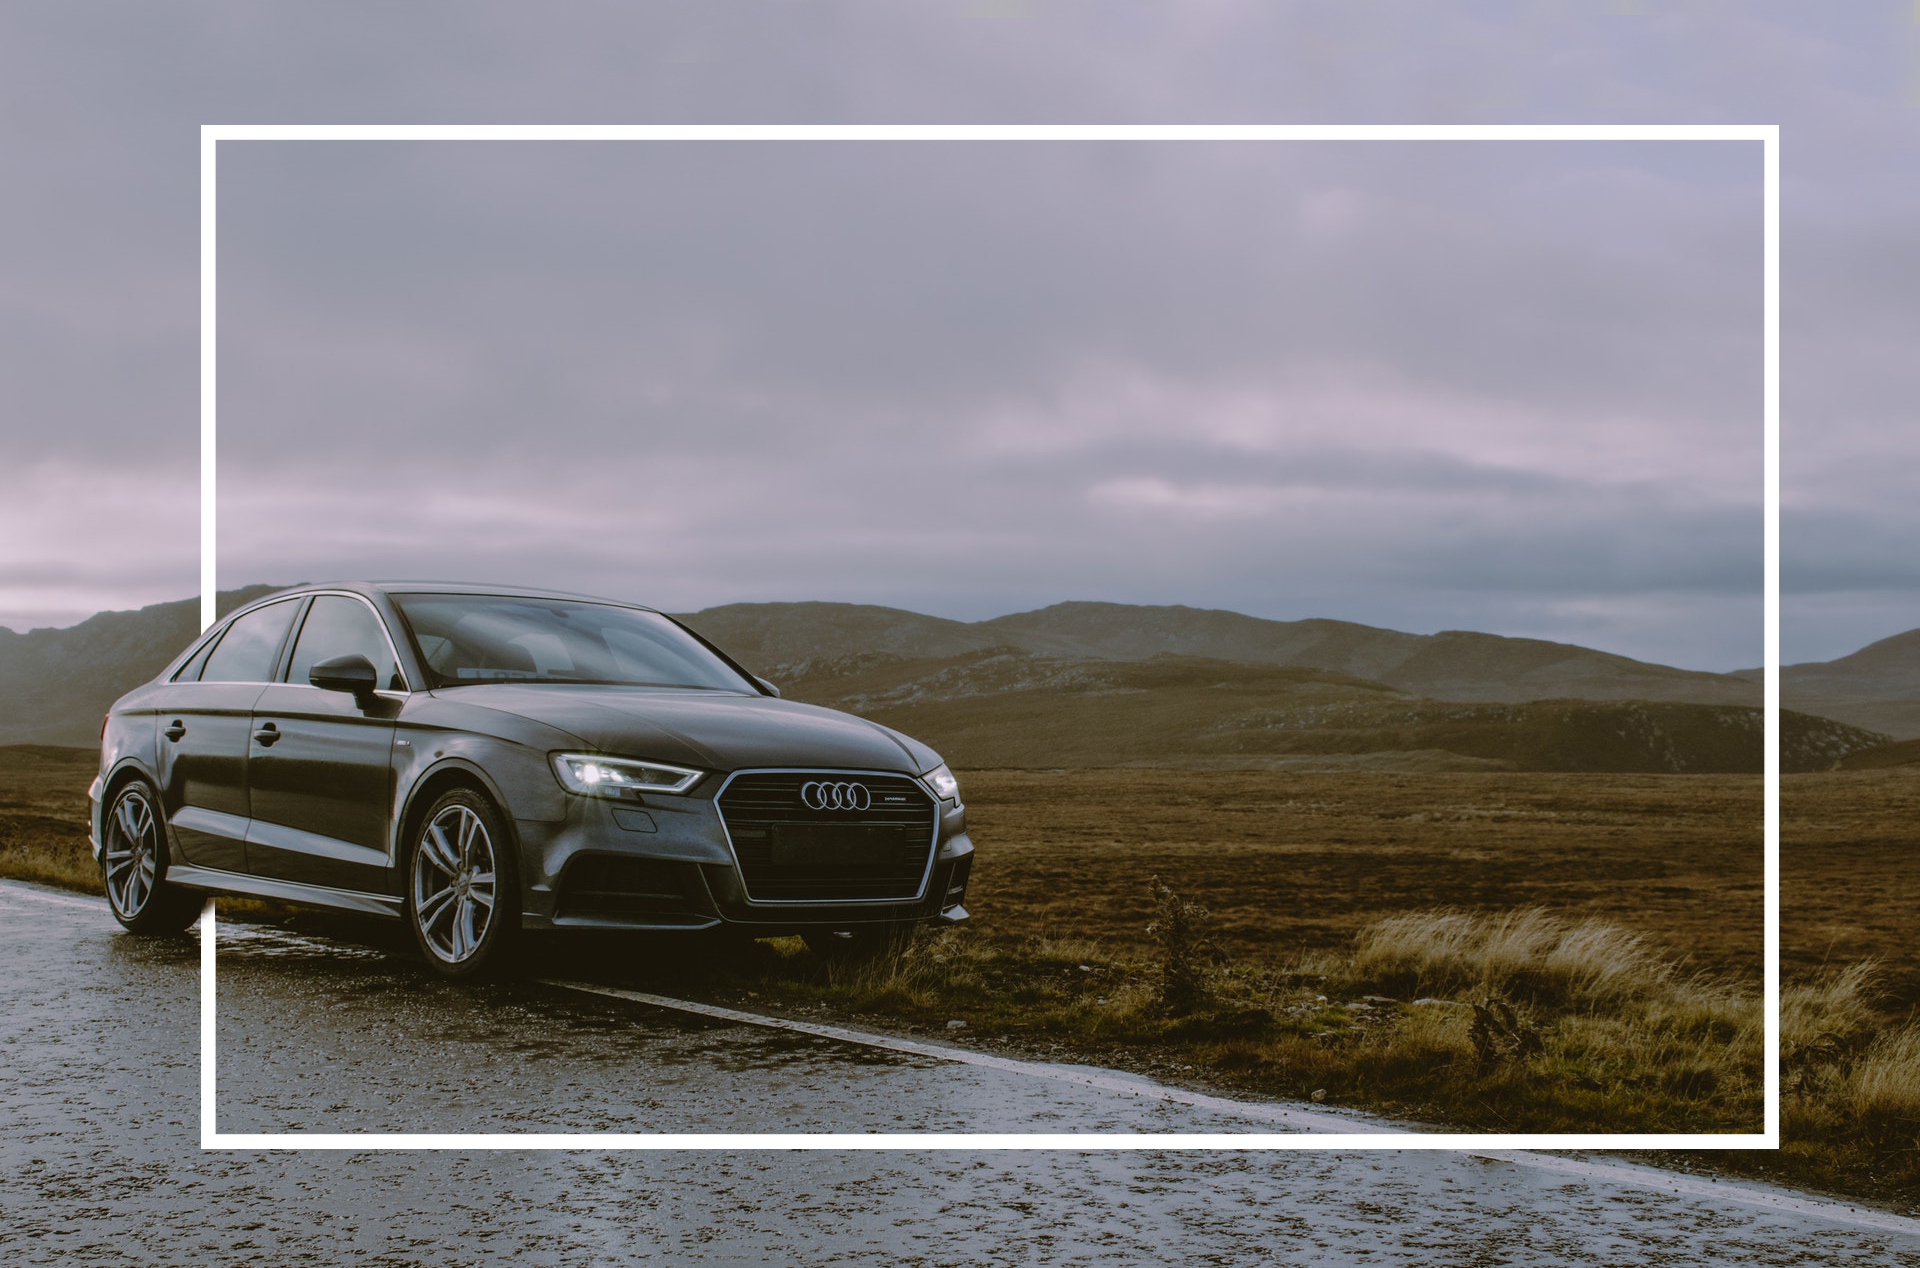
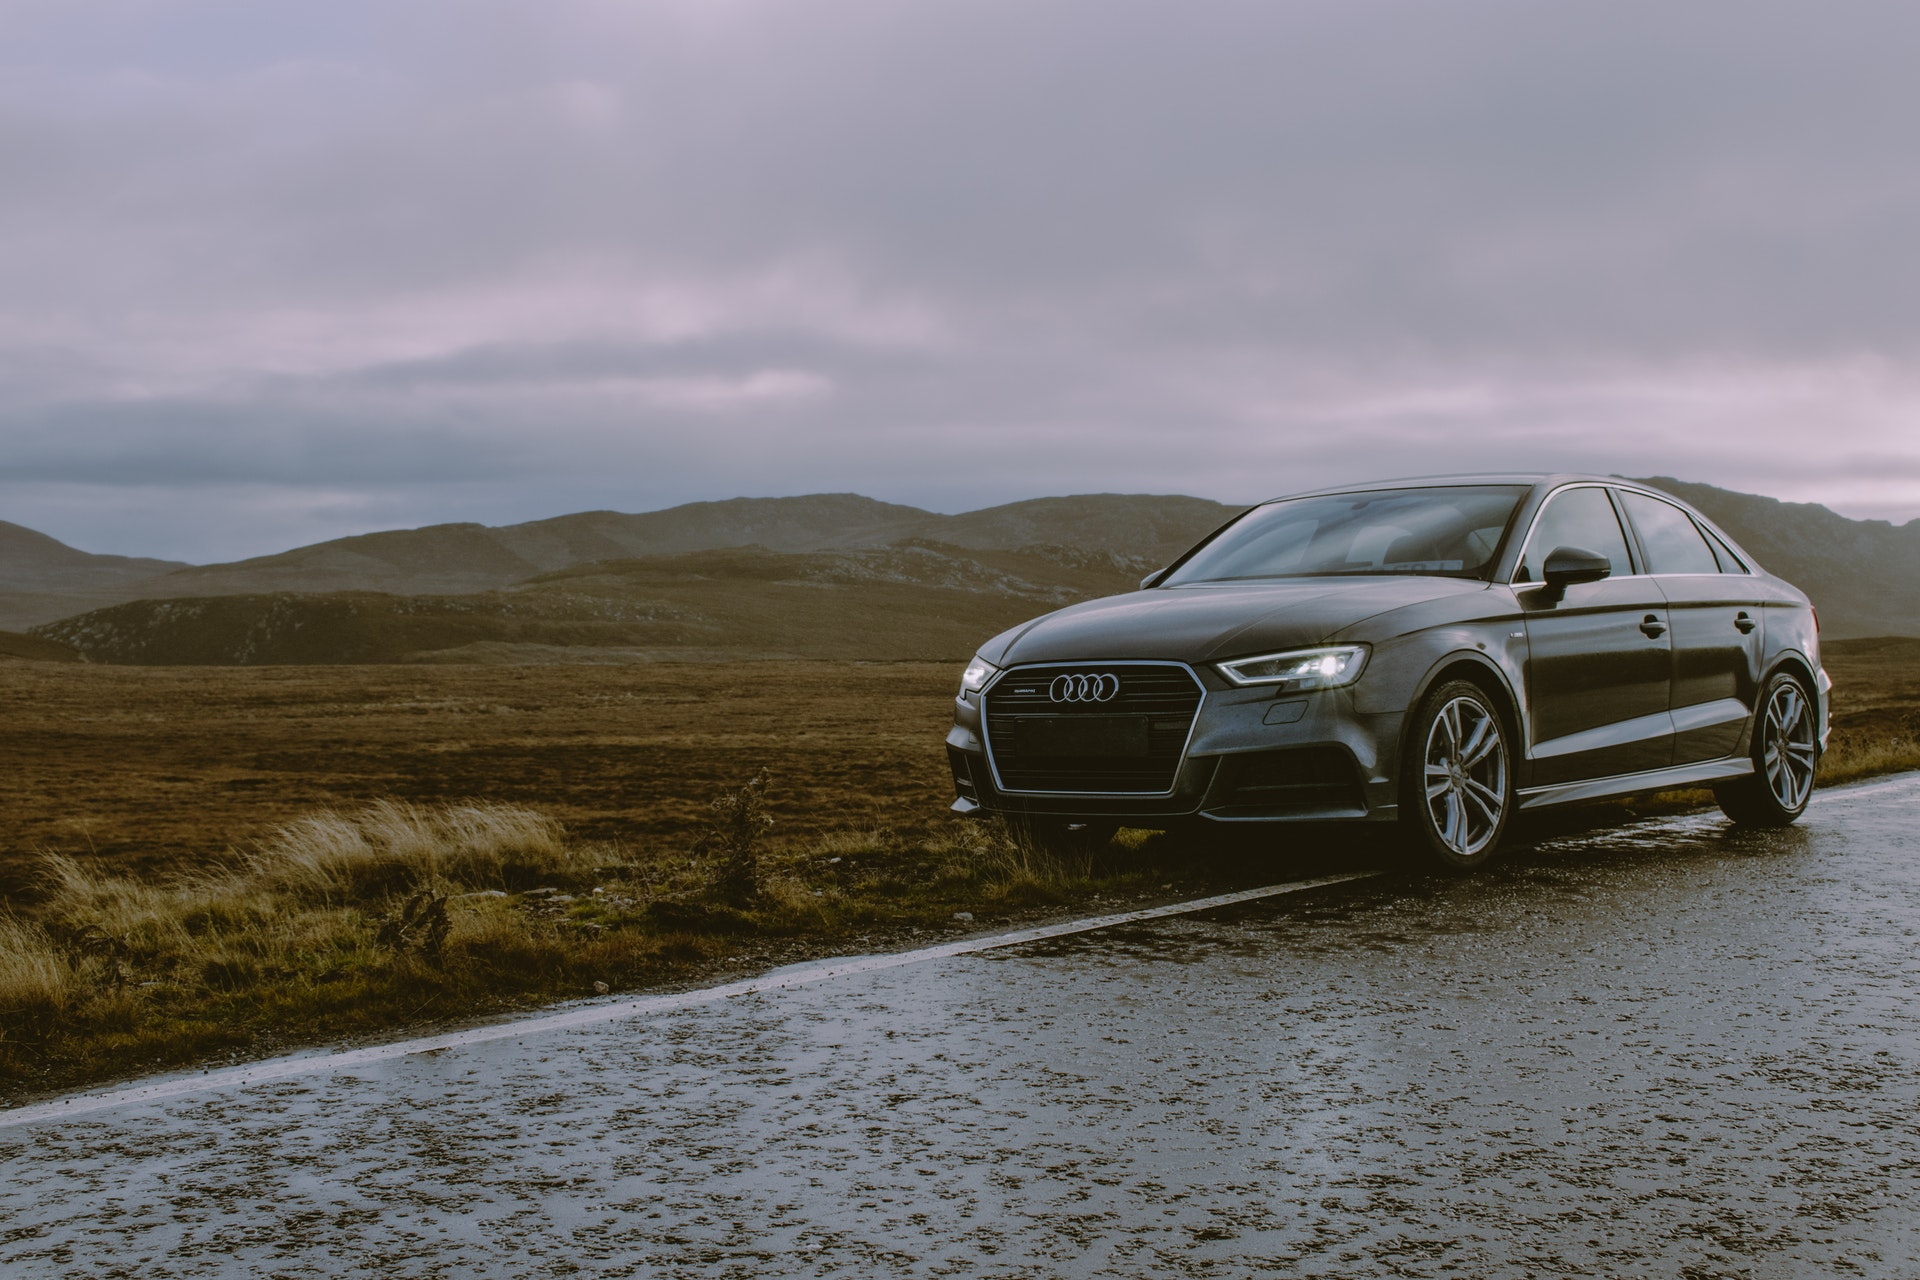
dashboard fixes, buttons

diff --git a/client/pages/index.vue b/client/pages/index.vue
@@ -1,7 +1,17 @@
 <template>
   <div class="container">
     <TheSidenav/>
-    <div id="formahome">
+    <div id="bg-pic">
+      <div class="headline">
+        <h1>Iznajmite vozilo po svojoj mjeri!</h1>
+      </div>
+      <a id="link" href="/Vehicles">
+        <button type="submit" class="btn btn-1">
+          <span>REZERVIRAJ!</span>
+        </button>
+      </a>
+    </div>
+    <!-- <div id="formahome">
       <center>
         <h1>
           REZERVIRAJ AUTO PO MJERI!
@@ -9,6 +19,7 @@
         </h1>
       </center>
       <section id="container">
+        <div class="bg-pic" style="background: url('assets/images/rentacar-audi.jpg') cover"></div>
         <section class="form-wrap">
           <br>
           <br>
@@ -44,33 +55,12 @@
             </div>
           </form>
         </section>
-        <button type="submit" class="btn">
-          <a id="link" href="/Vehicles">
-            <span>REZERVIRAJ!</span>
-          </a>
-        </button>
+        
       </section>
 
       <img id="image" src="~/assets/Images/a6.png">
-    </div>
+    </div>-->
 
-    <br>
-    <br>
-    <br>
-    <br>
-    <br>
-    <br>
-    <br>
-    <br>
-    <br>
-    <br>
-    <br>
-    <br>
-    <br>
-    <br>
-    <br>
-    <br>
-    <br>
     <section id="onama" class="aboutus">
       <div class="divBox div1">
         <h2>O nama</h2>
@@ -79,7 +69,7 @@
         <p
           id="p3"
         >Integer luctus enim in odio semper, molestie convallis ipsum vehicula. Integer elementum mattis pretium. Etiam hendrerit lobortis justo, in lacinia justo efficitur ac. Fusce venenatis vitae odio dapibus mollis. Nunc pretium, libero ut rutrum sagittis, mauris nunc sollicitudin quam, a ullamcorper arcu leo nec ligula. Sed gravida nisi quam, ac tincidunt augue pharetra et. Mauris quis felis libero. Vivamus vehicula, leo ac volutpat tempus, purus mauris tincidunt dui, vitae tincidunt turpis ante quis purus. Nullam tempus aliquam sapien non accumsan.</p>
-        <button type="submit" class="btn2">
+        <button type="submit" class="btn">
           <a id="link" href="/Vehicles">
             <span>REZERVIRAJ!</span>
           </a>
@@ -222,6 +212,119 @@ export default {
 </script>
 
 <style scoped>
+body,
+html {
+  height: 100%;
+}
+
+#bg-pic {
+  display: flex;
+  flex-wrap: nowrap;
+  flex-direction: column;
+  position: relative;
+  height: 90vh;
+  background-image: url('~assets/images/rentacar-audi.jpg');
+  background-position: center;
+  background-size: cover;
+}
+
+.headline {
+  position: relative;
+  top: 20vh;
+  margin: 0 auto;
+  text-transform: uppercase;
+  text-align: center;
+}
+
+.headline h1 {
+  font-size: 3rem;
+}
+
+.button {
+  position: relative;
+  background: none;
+  top: 30vh;
+  margin: 0 auto;
+  display: block;
+  padding: 15px 25px;
+  font-size: 24px;
+  text-align: center;
+  cursor: pointer;
+  outline: none;
+  background-color: #448cff;
+  color: #f4f4f4;
+  border: 0px solid;
+  border-radius: 15px;
+}
+
+.button:hover {
+  background-color: #4781df;
+}
+
+.button:active {
+  background-color: #3364b4;
+}
+
+.btn {
+  position: relative;
+  top: 30vh;
+  border: none;
+  font-family: inherit;
+  font-size: inherit;
+  color: #448cff;
+  background: none;
+  cursor: pointer;
+  padding: 25px 80px;
+  display: block;
+  margin: 0 auto;
+  text-transform: uppercase;
+  letter-spacing: 1px;
+  font-weight: 700;
+  outline: none;
+  -webkit-transition: all 0.3s;
+  -moz-transition: all 0.3s;
+  transition: all 0.3s;
+}
+
+.btn:after {
+  content: '';
+  position: absolute;
+  z-index: -1;
+  -webkit-transition: all 0.3s;
+  -moz-transition: all 0.3s;
+  transition: all 0.3s;
+}
+
+.btn-1 {
+  border: 3px solid #448cff;
+  color: #448cff;
+}
+
+/* .btn {
+  text-decoration: none !important;
+  font-family: 'Montserrat';
+  font-weight: bold;
+  text-shadow: 2px 2px 6px #444444;
+  border: none;
+  display: block;
+  text-align: center;
+  cursor: pointer;
+  text-transform: uppercase;
+  outline: none;
+  overflow: hidden;
+  position: relative;
+  top: 30vh;
+  min-width: 21%;
+  margin: 0 auto;
+  background: #448cff;
+  height: 80px;
+  border-radius: 5px;
+  margin-top: 0;
+  color: #f4f4f4;
+  font-size: 24px;
+  box-shadow: 0 2px 8px 0 rgba(0, 0, 0, 0.517), 0 6px 20px 0 rgba(0, 0, 0, 0.51);
+} */
+
 .flip-card {
   padding-left: 1%;
   margin-top: 2%;
@@ -442,109 +545,19 @@ select {
   z-index: 3;
 }
 
-#formahome {
-  background-color: #0054db;
-  min-height: 580px;
-  width: 33%;
-  margin-left: 32%;
-  border-radius: 5px;
-  box-shadow: 0 4px 8px 0 rgba(0, 0, 0, 0.517), 0 6px 20px 0 rgba(0, 0, 0, 0.51);
-  z-index: 1;
-}
-
-.btn {
-  text-decoration: none !important;
-  font-family: 'Montserrat';
-  font-weight: bold;
-  text-shadow: 2px 2px 6px #444444;
-  border: none;
-  display: block;
-  text-align: center;
-  cursor: pointer;
-  text-transform: uppercase;
-  outline: none;
-  overflow: hidden;
-  position: absolute;
-  min-width: 21%;
-  margin: 0 auto;
-  background: #448cff;
-  height: 80px;
-  border-radius: 5px;
-  margin-top: 6%;
-  color: rgb(200, 233, 253);
-  font-size: 24px;
-  border: 2px solid white;
-  box-shadow: 0 2px 8px 0 rgba(0, 0, 0, 0.517), 0 6px 20px 0 rgba(0, 0, 0, 0.51);
-}
-
 #link {
   text-decoration: none;
-  color: rgb(200, 233, 253);
+  color: #f4f4f4;
 }
 
-.btn:hover,
-#link:hover,
-.btn span:hover {
-  color: rgb(255, 255, 255);
-  text-shadow: 1px 1px 6px #1b1b1b;
-}
-.btn span,
-.btn2 span {
-  position: relative;
-  z-index: 1;
-  text-decoration: none;
-}
-
-.btn:after,
-.btn2:after {
-  content: '';
-  position: absolute;
-  left: 0;
-  top: 0;
-  height: 350%;
-  width: 130%;
-  background: #6ab3bd;
-  -webkit-transition: all 0.1s ease-in-out;
-  transition: all 0.1s ease-in-out;
-  -webkit-transform: translateX(-98%) translateY(-25%) rotate(45deg);
-  transform: translateX(-98%) translateY(-25%) rotate(45deg);
-}
+/* #link:hover {
+    color: #ff3abf;
+  } */
 
 #aboutus {
   background-color: red;
   height: 500px;
   width: 100%;
-}
-.btn2 {
-  font-family: 'Montserrat';
-  font-weight: bold;
-  text-shadow: 2px 2px 6px #444444;
-  border: none;
-  display: block;
-  text-align: center;
-  cursor: pointer;
-  text-transform: uppercase;
-  outline: none;
-  overflow: hidden;
-  position: relative;
-  width: 300px;
-  margin: 0 auto;
-  background: #0054db;
-  height: 80px;
-  border-radius: 5px;
-  margin-top: 15%;
-  color: rgb(200, 233, 253);
-  font-size: 23px;
-  border: 2px solid white;
-  box-shadow: 0 2px 8px 0 rgba(0, 0, 0, 0.517), 0 6px 20px 0 rgba(0, 0, 0, 0.51);
-  width: 60%;
-}
-
-.btn:hover:after,
-.btn2:hover:after {
-  -webkit-transform: translateX(-9%) translateY(-25%) rotate(45deg);
-  transform: translateX(-9%) translateY(-25%) rotate(45deg);
-  color: #333;
 }
 
 @media screen and (max-width: 499px) {

diff --git a/api/resources/views/pages/users.blade.php b/api/resources/views/pages/users.blade.php
@@ -9,8 +9,6 @@
             <thead>
                 <tr>
                     <th>Name</th>
-                    <th>Last Name</th>
-                    <th>Username</th>
                     <th>Email</th>
                     <th>Actions</th>
                 </tr>
@@ -19,42 +17,19 @@
                 @foreach($users as $user)
                 <tr>
                     <td>{{ $user->name }}</td>
-                    <td>{{ $user->lastname }}</td>
-                    <td>{{ $user->username }}</td>
                     <td>{{ $user->email }}</td>
                     <td style="text-align:right;">
+                        <a href="users/{{ $user->id }}">
                         <button class="btn btn-primary" data-userid={{$user->id}} data-toggle="modal" data-target="#about"><span class="glyphicon glyphicon-eye-open"></span> About</button>
-                    </td>
+                      </a>
+                      </td>
                 </tr>
                 {{-- <a href="{{ url('users/'. $user->id) }}"></a> --}} <!-- LINK ZA JEDNOG userA -->
                 @endforeach
             </tbody>
           </table>
 
-          <div class="modal fade" id="about" tabindex="-1" role="dialog" aria-labelledby="myModalLabel">
-            <div class="modal-dialog" role="document">
-              <div class="modal-content">
-                <div class="modal-header">
-                  <button type="button" class="close" data-dismiss="modal" aria-label="Close"><span aria-hidden="true">&times;</span></button>
-                  <h4 class="modal-title text-center" id="myModalLabel">Details</h4>
-                </div>
-                <figure class="figure" style="background: #f0f0f0; padding: 20px; text-align: center; width:400px; margin:20px auto; border-radius:15px; box-shadow: 1px 1px 5px 2px #333;">
-                    <h1 class="title" style="margin-top:0;">Admin ID: {{ $user->id }}</h1>
-                    <figcaption class="figure-caption">
-                            <ul style="list-style: none; font-size: 2rem; text-align:left;">
-                                    <li><span style="font-weight:bold;">Username:</span> {{ $user->username }}</li>
-                                    <li><span style="font-weight:bold;">Name:</span> {{ $user->name }}</li>
-                                    <li><span style="font-weight:bold;">Last Name:</span> {{ $user->lastname }}</li>
-                                    <li><span style="font-weight:bold;">Email:</span> {{ $user->email }}</li>
-                                    <li><span style="font-weight:bold;">Is Verified:</span> @if ( $user->admin ) verified @else not verified @endif</li>
-                            </ul>
-                    </figcaption>
-                </figure>
-    
-                <br>
-              </div>
-            </div>
-          </div>
+       
 
 
 @endsection

diff --git a/api/resources/views/pages/user.blade.php b/api/resources/views/pages/user.blade.php
@@ -7,11 +7,9 @@
                 <h1 class="title" style="margin-top:0;">Admin ID: {{ $user->id }}</h1>
                 <figcaption class="figure-caption">
                         <ul style="list-style: none; font-size: 2rem; text-align:left;">
-                                <li><span style="font-weight:bold;">Username:</span> {{ $user->username }}</li>
                                 <li><span style="font-weight:bold;">Name:</span> {{ $user->name }}</li>
-                                <li><span style="font-weight:bold;">Last Name:</span> {{ $user->lastname }}</li>
                                 <li><span style="font-weight:bold;">Email:</span> {{ $user->email }}</li>
-                                <li><span style="font-weight:bold;">Is Verified:</span> @if ( $user->admin ) verified @else not verified @endif</li>
+                                {{-- <li><span style="font-weight:bold;">Is Verified:</span> @if ( $user->admin ) verified @else not verified @endif</li> --}}
                         </ul>
                 </figcaption>
             </figure>

diff --git a/api/resources/views/pages/customer.blade.php b/api/resources/views/pages/customer.blade.php
@@ -14,7 +14,6 @@
                                 <li><span style="font-weight:bold;">Is Verified:</span> @if ( $customer->verified ) verified @else not verified @endif</li>
                         </ul>
                 </figcaption>
-                <a href="{{ $customer->id }}/edit"><button class="btn btn-primary" style="margin-top: 1rem; width: 100px;">Edit</button></a>
             <form method="POST" action="/customers/{{ $customer->id }}" style="margin-top: 1rem">
                 @method('DELETE')
                 @csrf
